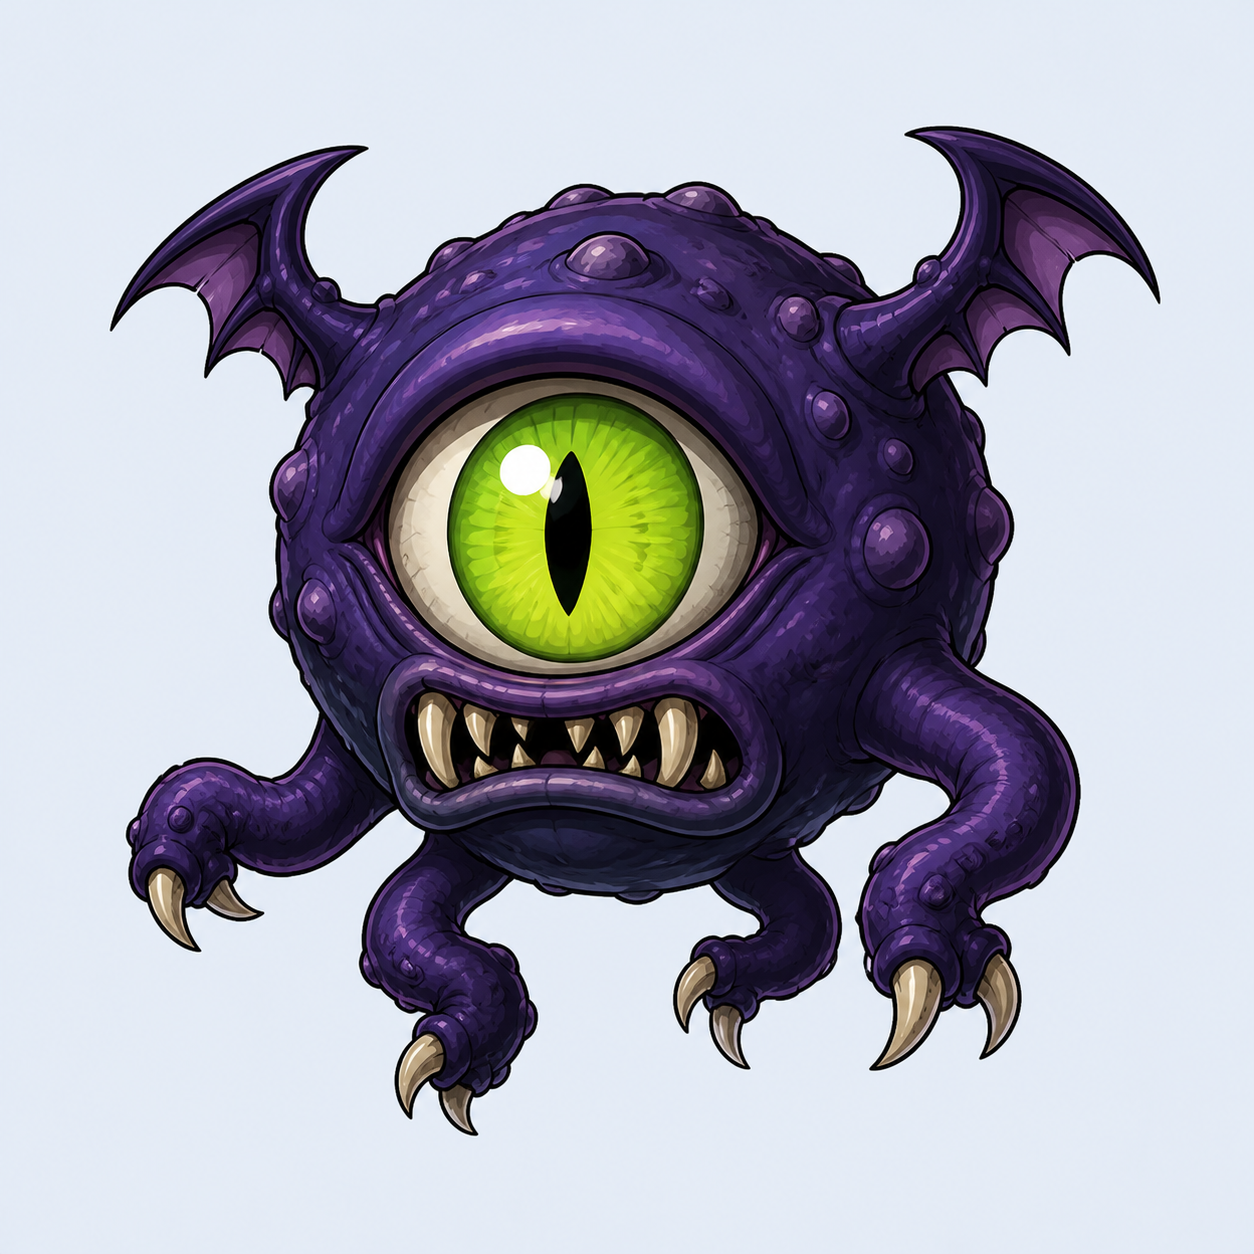
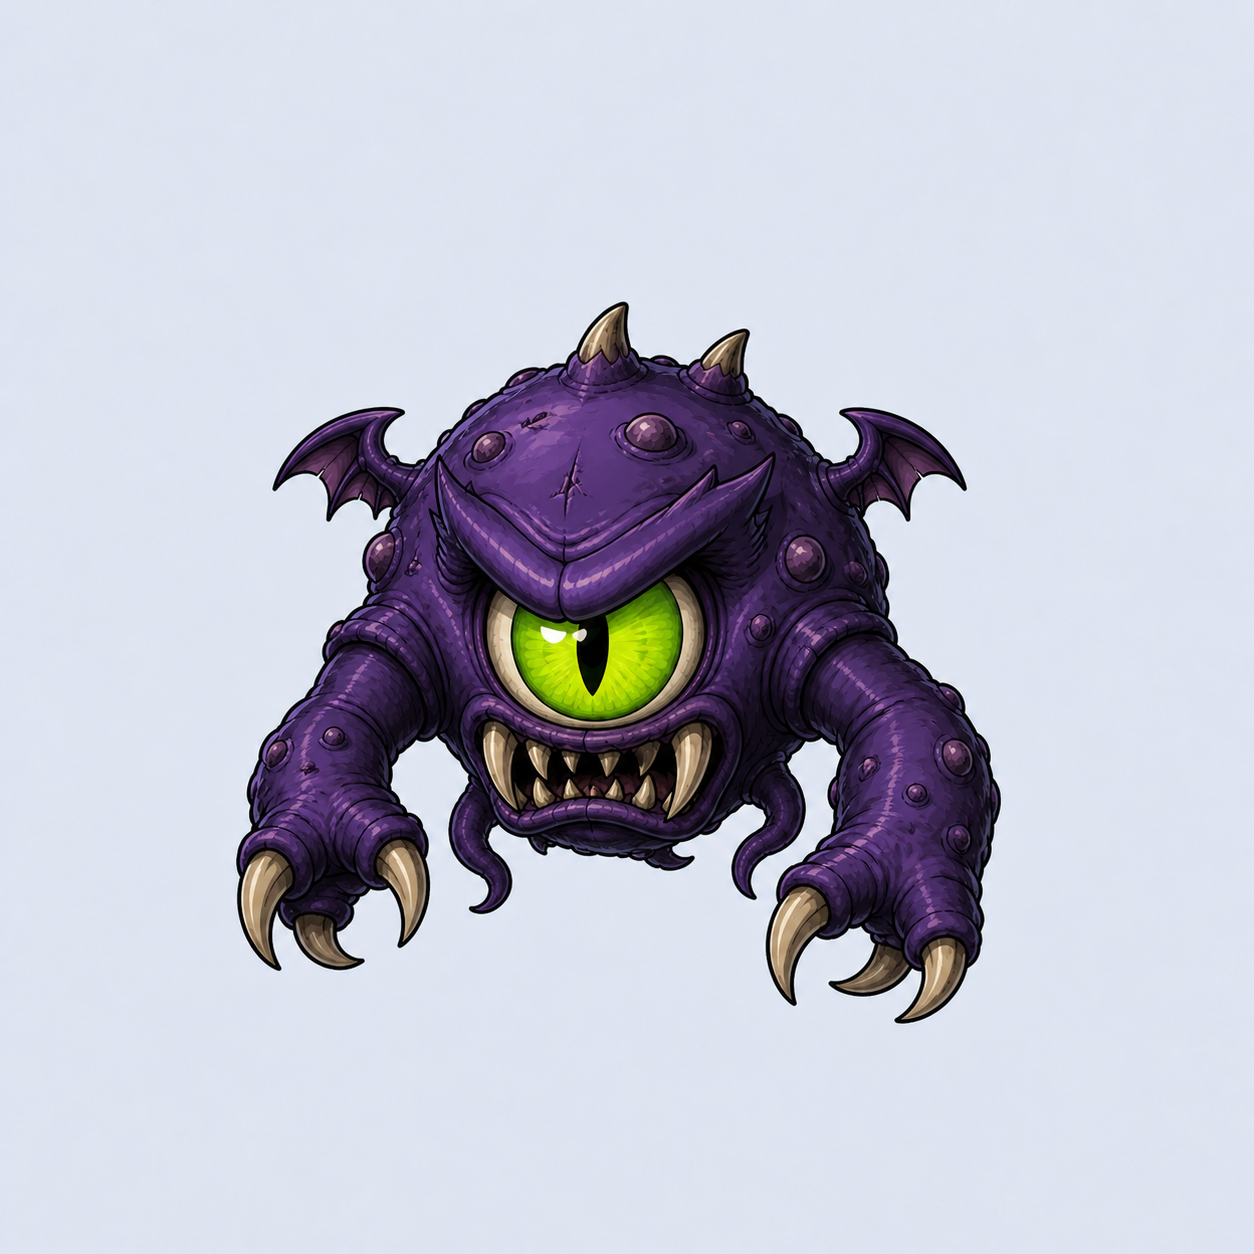
Strengthen Doom Gazer A-rank preview

diff --git a/docs/design/style-reference-batch2-preview/index.html b/docs/design/style-reference-batch2-preview/index.html
@@ -228,14 +228,14 @@
 
       <article>
         <figure>
-          <img src="doomgazer-direction.png?v=review-1" width="1254" height="1254" alt="大きな緑の単眼と小さな翼、四本の触手状の手足を持つ紫色のドゥームゲイザー確認案" loading="lazy">
+          <img src="doomgazer-direction.png?v=review-2" width="1254" height="1254" alt="鋭い緑の単眼と太い両腕、大きな爪を持つ紫色のドゥームゲイザーAランク強化案" loading="lazy">
           <span class="rank rank-a" aria-label="Aランク">A</span>
         </figure>
         <div class="copy">
           <h2>ドゥームゲイザー</h2>
           <p class="role">Aランク｜怪眼系</p>
-          <p>特徴を「巨大な単眼」に絞った奇妙な魔物。Sより小さく、装飾・翼・体格を控えめにして、強いが最上位ではないAランクに収めています。</p>
-          <a class="direct" href="doomgazer-direction.png?v=review-1">画像だけ大きく見る</a>
+          <p>単眼に加えて、鋭い眉骨・太い攻撃腕・大爪・牙を強化した上位A案。Sより翼・角・体格を抑え、危険な中ボス級に収めています。</p>
+          <a class="direct" href="doomgazer-direction.png?v=review-2">画像だけ大きく見る</a>
         </div>
       </article>
     </section>
